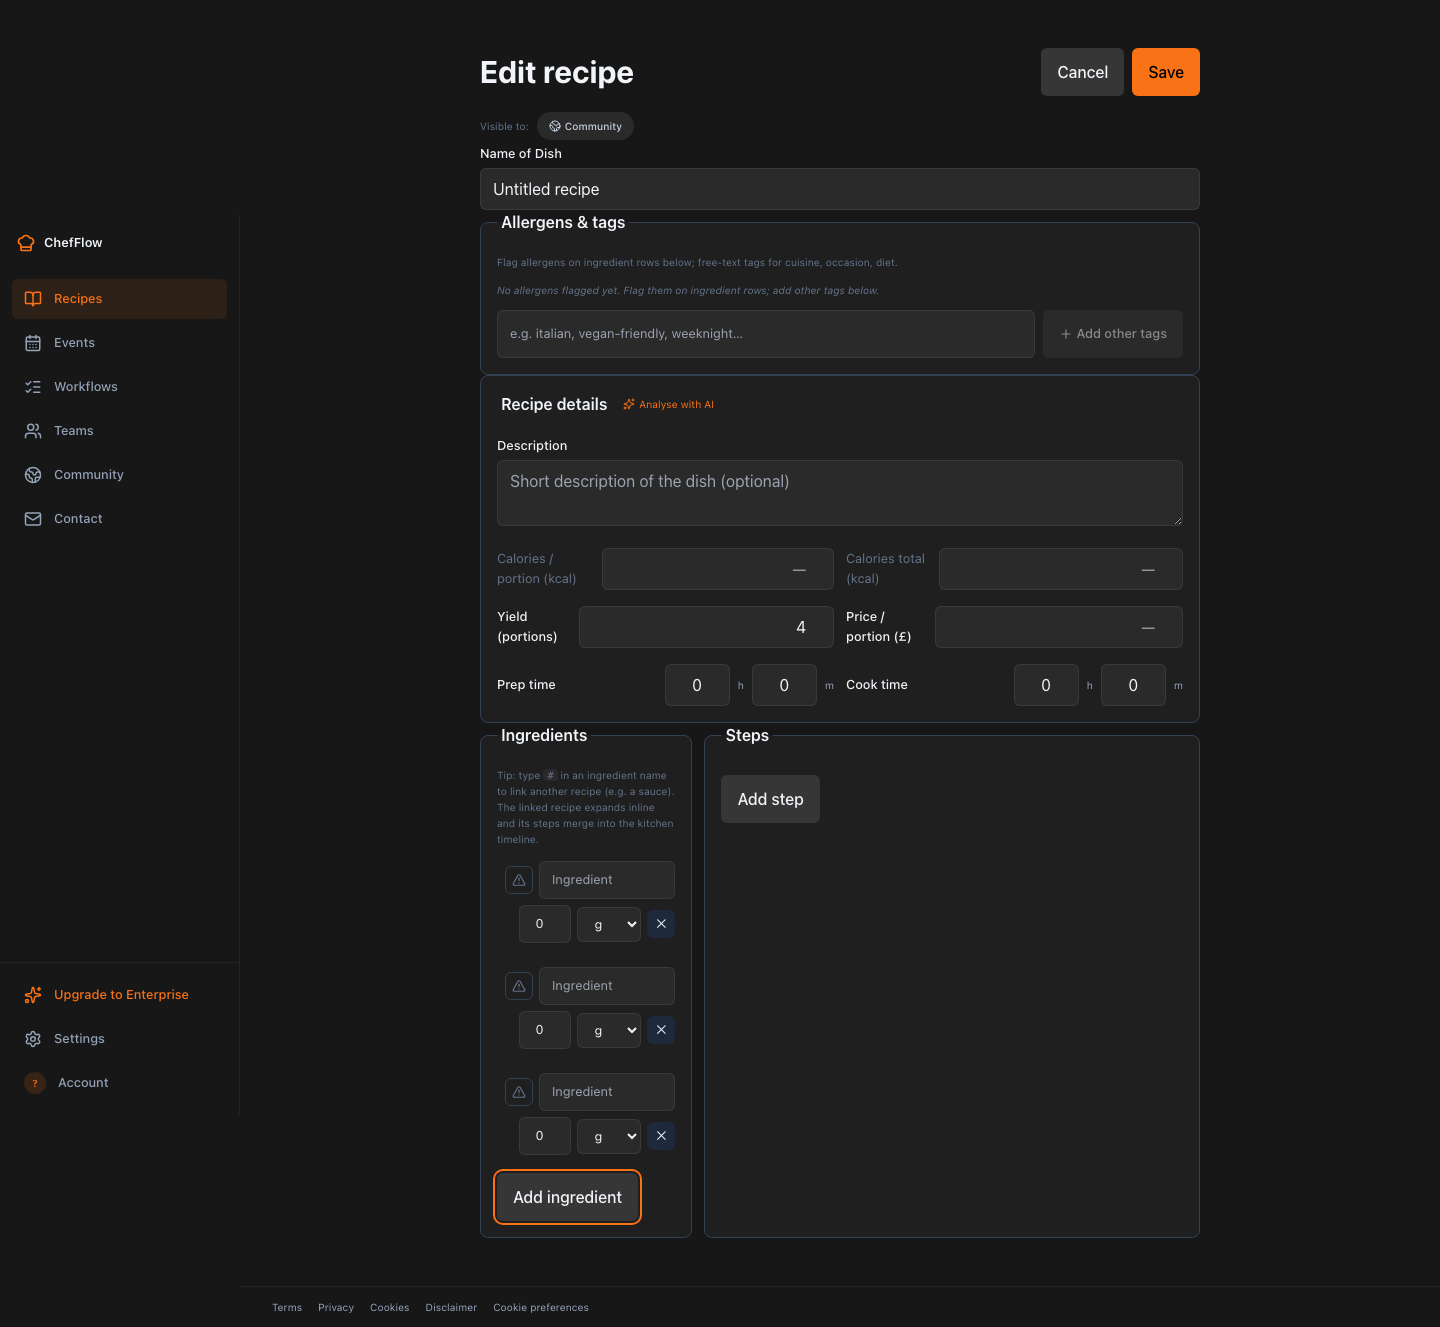
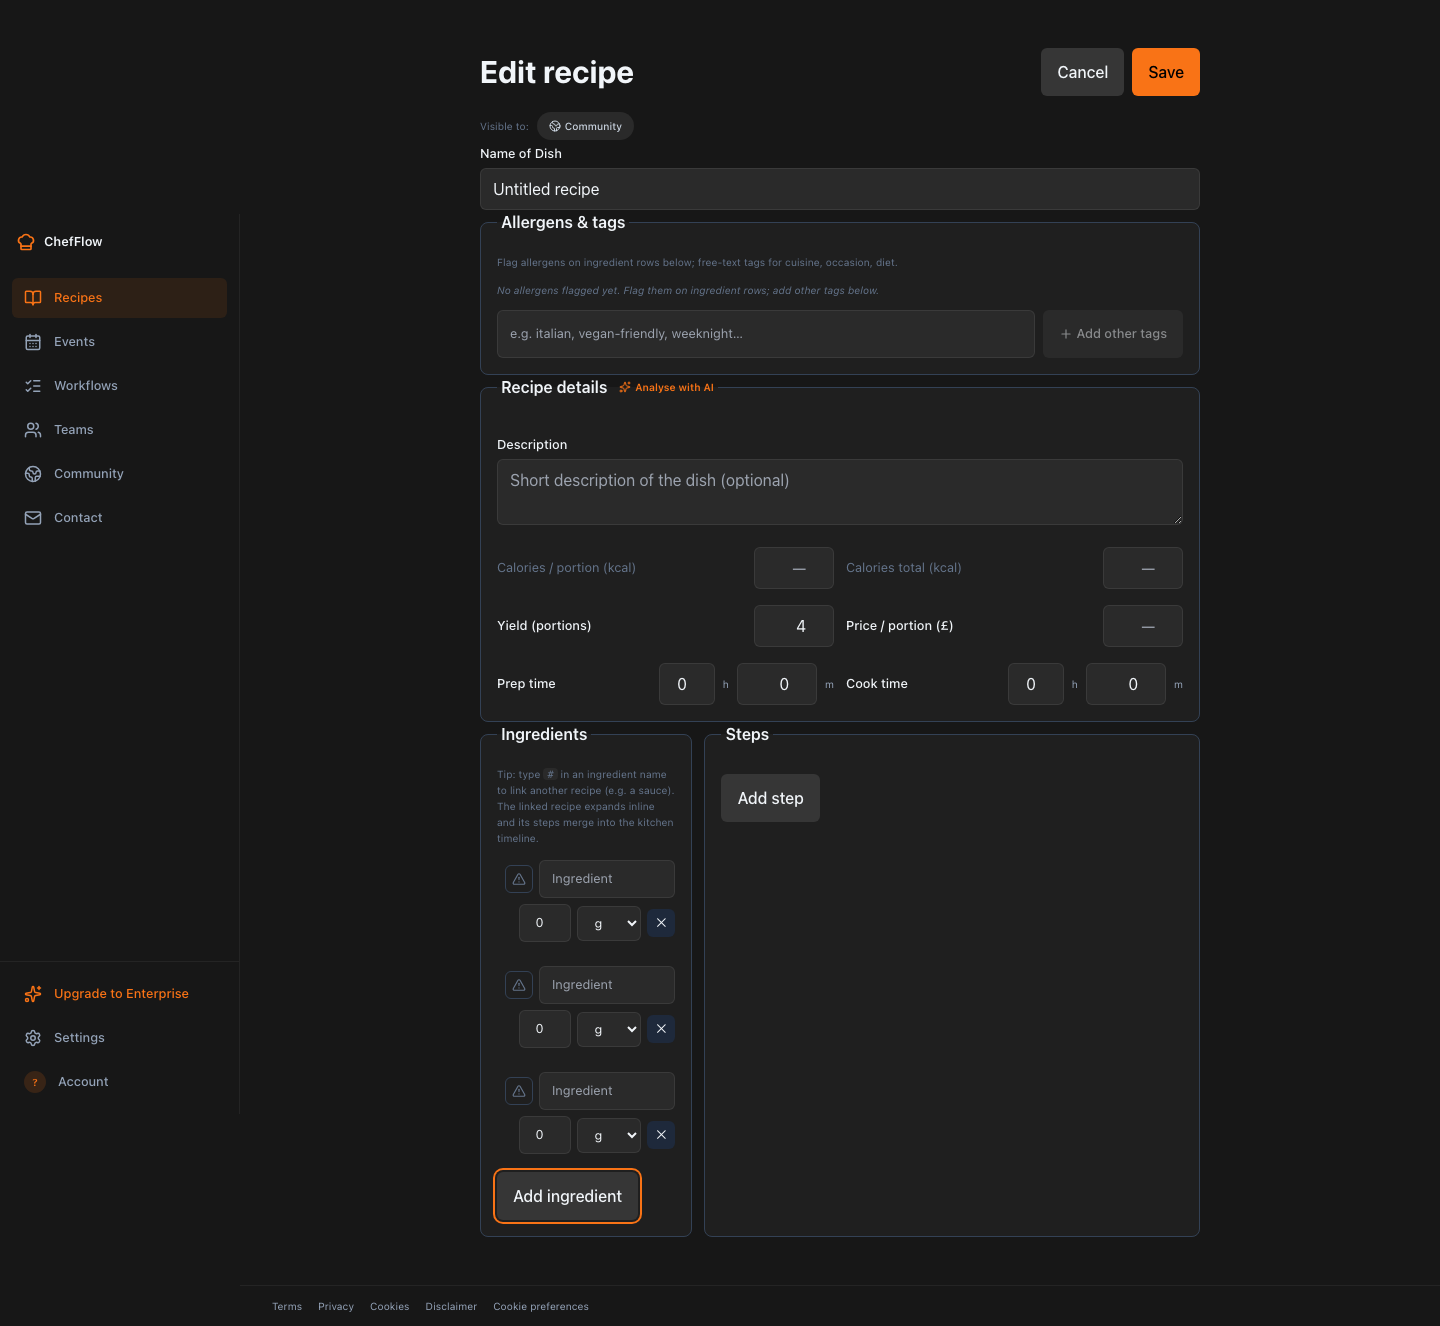
fix(recipe-editor): T19 — Recipe-details legend cut-through + numeric input widths
Two T17-follow-up inconsistencies:

1. The "Recipe details" legend sat BELOW its top border like normal
   text, while every other section's legend (Allergens & tags /
   Allergen history / Ingredients / Steps) sliced through the top
   border via the HTML5 native fieldset+legend behaviour.

   Cause: T17 had wrapped the legend in a <div className="flex
   items-baseline gap-3 flex-wrap"> so the AI button could sit inline.
   The wrapper made <legend> a non-direct child of <fieldset>, which
   breaks the border-cut-through.

   Fix: legend is back as a DIRECT child of <fieldset>; the AI button
   is now a child of the <legend> itself (HTML5 allows interactive
   inline content inside legend). inline-flex on the legend keeps the
   button positioned next to the title text without sacrificing the
   border-cut-through.

2. Cal/portion + Cal/total + Yield + Price inputs rendered ~190px
   wide instead of 80px because `.input { width: 100% }` from
   @apply in index.css was winning over Tailwind's `w-20` utility
   in the bundled CSS cascade. Result: 4 wide inputs next to 4 small
   prep/cook time inputs — vertical alignment broken.

   Fix: explicit pixel widths via inline style on all 4 Cal/Yield
   inputs (80px) — inline style has highest specificity and pins
   the width regardless of cascade. Same treatment applied to
   TimePicker hours (56px) + minutes (80px) inputs for consistency
   and so they don't suffer the same regression if the CSS load
[…]

diff --git a/chefflow/src/ui/pages/RecipeEditor.tsx b/chefflow/src/ui/pages/RecipeEditor.tsx
@@ -464,8 +464,15 @@ export default function RecipeEditor() {
             "Analyse with AI" button at the top that runs calorie
             analysis + description generation in parallel. */}
         <fieldset className="rounded-lg border border-slate-200 dark:border-slate-700 p-4 bg-white dark:bg-kitchen-ink space-y-4">
-          <div className="flex items-baseline gap-3 flex-wrap">
-            <legend className="text-base font-semibold px-1">Recipe details</legend>
+          {/* T19 — <legend> as DIRECT child of <fieldset> so the browser's
+              native "legend cuts through the top border" behaviour fires.
+              T17 had wrapped the legend in a <div> to inline the AI
+              button next to the title, but that wrapper made the legend
+              a non-direct child and broke the border-cut. inline-flex
+              on the legend itself keeps the AI button positioned inline
+              without losing the cut-through. */}
+          <legend className="text-base font-semibold px-1 inline-flex items-baseline gap-3 flex-wrap">
+            <span>Recipe details</span>
             <button
               type="button"
               onClick={() => requireAuth(() => void handleAnalyzeAll())}
@@ -477,7 +484,7 @@ export default function RecipeEditor() {
               <Sparkles className={`h-3 w-3 ${aiBusy ? 'animate-pulse' : ''}`} aria-hidden="true" />
               {aiBusy ? 'Analysing…' : 'Analyse with AI'}
             </button>
-          </div>
+          </legend>
 
           {!hasLlmAccess && (
             <p className="text-xs text-slate-500">
@@ -523,7 +530,8 @@ export default function RecipeEditor() {
                   commitRecipe({ ...r, analysis: { ...(r.analysis ?? {}), caloriesPerPortion: next } });
                 }}
                 placeholder="—"
-                className="input w-20 text-right"
+                style={{ width: '80px' }}
+                className="input text-right"
                 aria-label="Calories per portion"
               />
             </label>
@@ -539,7 +547,8 @@ export default function RecipeEditor() {
                   commitRecipe({ ...r, analysis: { ...(r.analysis ?? {}), caloriesTotal: next } });
                 }}
                 placeholder="—"
-                className="input w-20 text-right"
+                style={{ width: '80px' }}
+                className="input text-right"
                 aria-label="Calories total"
               />
             </label>
@@ -554,7 +563,8 @@ export default function RecipeEditor() {
                 min={1}
                 value={r.originalYield}
                 onChange={(e) => update('originalYield', Math.max(1, Number(e.target.value)))}
-                className="input w-20 text-right"
+                style={{ width: '80px' }}
+                className="input text-right"
               />
             </label>
             <label className="flex items-center justify-between gap-3">
@@ -571,7 +581,8 @@ export default function RecipeEditor() {
                   if (Number.isFinite(n) && n >= 0) update('pricePerPortion', n);
                 }}
                 placeholder="—"
-                className="input w-20 text-right"
+                style={{ width: '80px' }}
+                className="input text-right"
                 aria-label="Price per portion in GBP"
               />
             </label>

diff --git a/chefflow/src/ui/components/TimePicker.tsx b/chefflow/src/ui/components/TimePicker.tsx
@@ -31,6 +31,11 @@ export default function TimePicker({ label, value, onChange }: Props) {
     <div className="flex items-center justify-between gap-3">
       <div className="text-sm font-medium">{label}</div>
       <div className="flex items-center gap-2">
+        {/* T19 — inline pixel widths so `.input`'s `width: 100%` from
+            @apply can't override (same cascade quirk that bit the
+            Cal/Yield inputs in RecipeEditor). Hours 56px + Minutes
+            80px; the 80px matches the Cal/Yield inputs in the parent
+            section so all 6 numeric inputs right-align in their cells. */}
         <input
           type="number"
           inputMode="numeric"
@@ -40,7 +45,8 @@ export default function TimePicker({ label, value, onChange }: Props) {
           aria-label={`${label} hours`}
           value={hours}
           onChange={(e) => setHours(Number(e.target.value))}
-          className="input w-14 text-right"
+          style={{ width: '56px' }}
+          className="input text-right"
         />
         <span className="text-xs text-slate-500 dark:text-slate-400">h</span>
         <input
@@ -52,7 +58,8 @@ export default function TimePicker({ label, value, onChange }: Props) {
           aria-label={`${label} minutes`}
           value={minutes}
           onChange={(e) => setMinutes(Number(e.target.value))}
-          className="input w-20 text-right"
+          style={{ width: '80px' }}
+          className="input text-right"
         />
         <span className="text-xs text-slate-500 dark:text-slate-400">m</span>
       </div>
